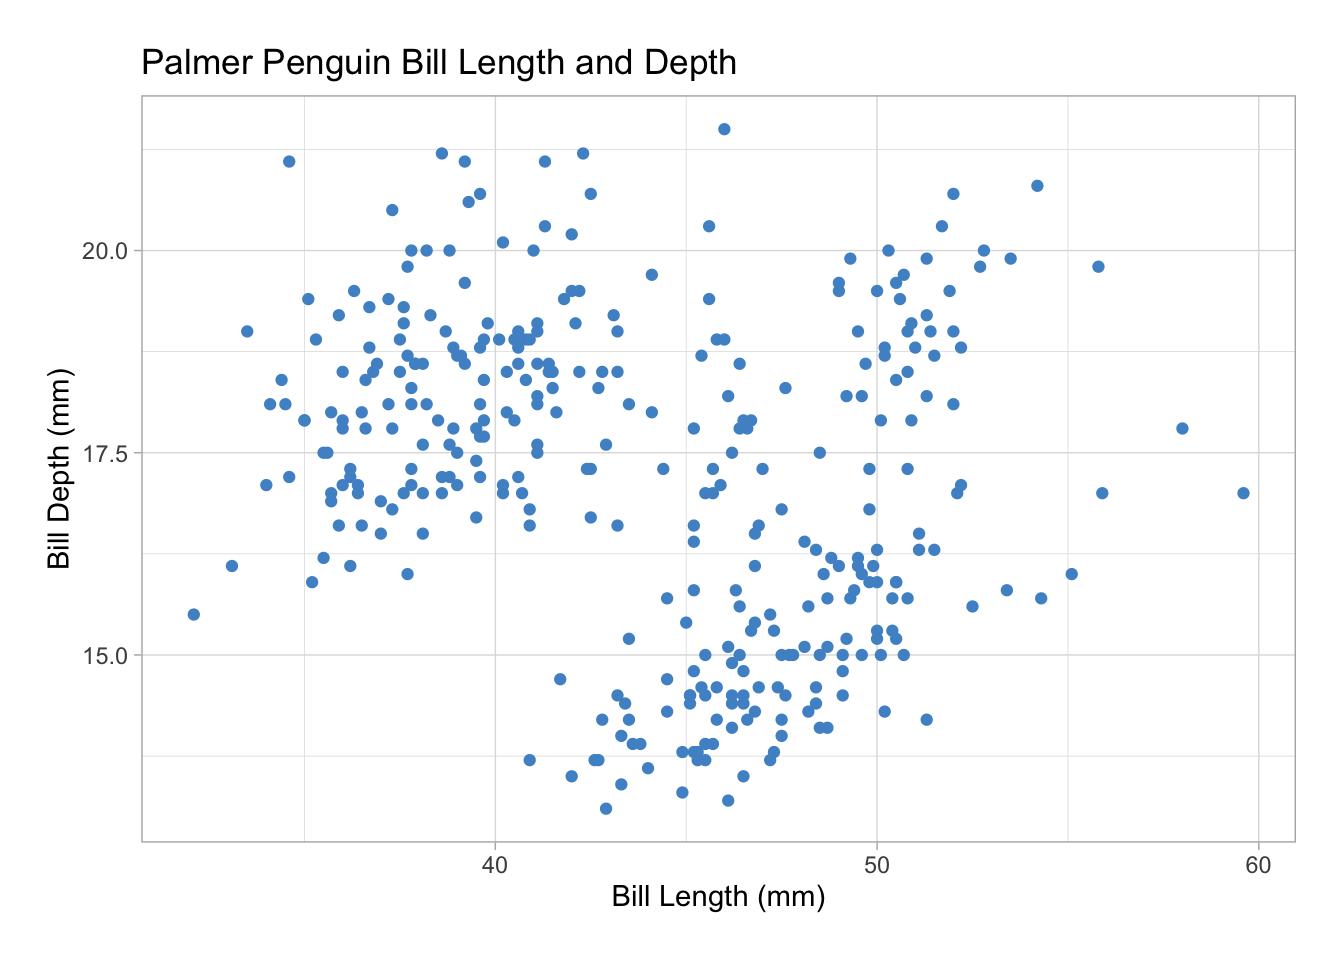
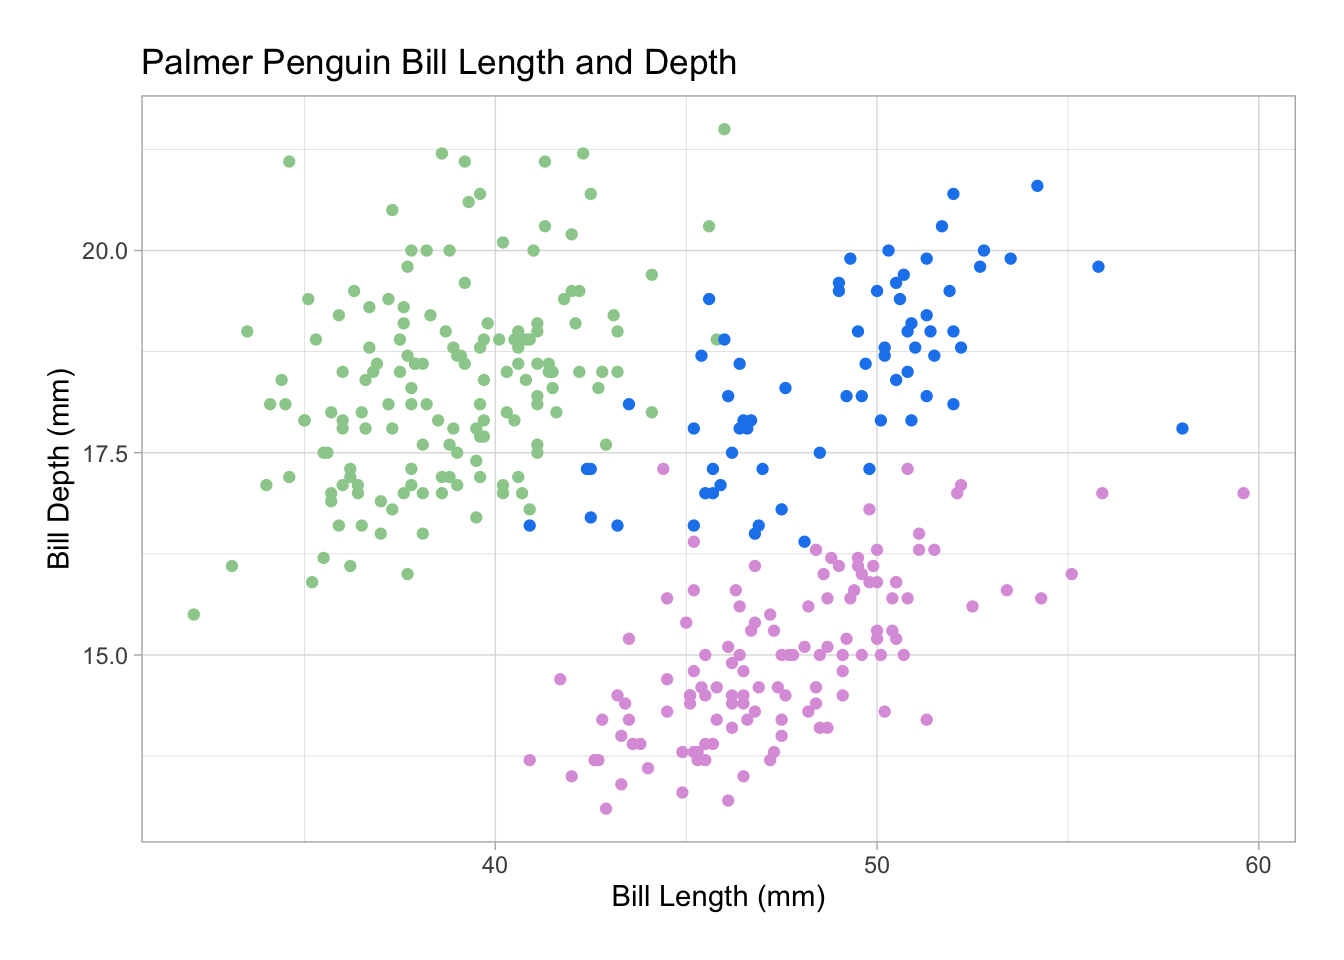
Changed color of the penguin scatterplot

diff --git a/eds-212-day-2-tasks.html b/eds-212-day-2-tasks.html
@@ -161,28 +161,14 @@ pre > code.sourceCode > span > a:first-child::before { text-decoration: underlin
 <h3 class="anchored" data-anchor-id="section-4-tasks">Section 4 tasks</h3>
 <div class="cell">
 <div class="sourceCode cell-code" id="cb8"><pre class="sourceCode r code-with-copy"><code class="sourceCode r"><span id="cb8-1"><a href="#cb8-1" aria-hidden="true" tabindex="-1"></a><span class="co"># make a plot of bill length and bill depth</span></span>
-<span id="cb8-2"><a href="#cb8-2" aria-hidden="true" tabindex="-1"></a><span class="fu">ggplot</span>(<span class="at">data =</span> penguins, <span class="fu">aes</span>(<span class="at">x =</span> bill_length_mm, <span class="at">y =</span> bill_depth_mm)) <span class="sc">+</span></span>
-<span id="cb8-3"><a href="#cb8-3" aria-hidden="true" tabindex="-1"></a>  <span class="fu">geom_point</span>(<span class="at">color =</span> <span class="st">"steelblue3"</span>) <span class="sc">+</span></span>
-<span id="cb8-4"><a href="#cb8-4" aria-hidden="true" tabindex="-1"></a>  <span class="fu">labs</span>(<span class="at">title =</span> <span class="st">"Palmer Penguin Bill Length and Depth"</span>, <span class="at">x =</span> <span class="st">"Bill Length (mm)"</span>, <span class="at">y =</span> <span class="st">"Bill Depth (mm)"</span>) <span class="sc">+</span></span>
-<span id="cb8-5"><a href="#cb8-5" aria-hidden="true" tabindex="-1"></a>  <span class="fu">theme_light</span>() <span class="sc">+</span> </span>
-<span id="cb8-6"><a href="#cb8-6" aria-hidden="true" tabindex="-1"></a>  <span class="fu">theme</span>(<span class="at">plot.margin =</span> <span class="fu">unit</span>(<span class="fu">c</span>(<span class="fl">0.25</span>, <span class="fl">0.25</span>, <span class="fl">0.25</span>, <span class="fl">0.25</span>),</span>
-<span id="cb8-7"><a href="#cb8-7" aria-hidden="true" tabindex="-1"></a>                                <span class="st">"inches"</span>))</span></code><button title="Copy to Clipboard" class="code-copy-button"><i class="bi"></i></button></pre></div>
-<div class="cell-output cell-output-stderr">
-<pre><code>Warning: Removed 2 rows containing missing values (`geom_point()`).</code></pre>
-</div>
-<div class="cell-output-display">
-<p><img src="eds-212-day-2-tasks_files/figure-html/unnamed-chunk-4-1.png" class="img-fluid" width="672"></p>
-</div>
-</div>
-<div class="cell">
-<div class="sourceCode cell-code" id="cb10"><pre class="sourceCode r code-with-copy"><code class="sourceCode r"><span id="cb10-1"><a href="#cb10-1" aria-hidden="true" tabindex="-1"></a><span class="co"># Jitter stuff</span></span>
-<span id="cb10-2"><a href="#cb10-2" aria-hidden="true" tabindex="-1"></a><span class="fu">ggplot</span>(penguins, <span class="fu">aes</span>(species, flipper_length_mm, <span class="at">color =</span> species)) <span class="sc">+</span></span>
-<span id="cb10-3"><a href="#cb10-3" aria-hidden="true" tabindex="-1"></a>  <span class="fu">geom_jitter</span>() <span class="sc">+</span> </span>
-<span id="cb10-4"><a href="#cb10-4" aria-hidden="true" tabindex="-1"></a>  <span class="fu">labs</span>(<span class="at">title =</span> <span class="st">"Jitter plot of species and flipper length"</span>, <span class="at">x =</span> <span class="st">"Species"</span>, <span class="at">y =</span> <span class="st">"Flipper Length (mm)"</span>) <span class="sc">+</span></span>
-<span id="cb10-5"><a href="#cb10-5" aria-hidden="true" tabindex="-1"></a>  <span class="fu">scale_color_manual</span>(<span class="at">values=</span><span class="fu">c</span>(<span class="st">'pink'</span>,<span class="st">'palegreen3'</span>,<span class="st">'cornflowerblue'</span>),</span>
-<span id="cb10-6"><a href="#cb10-6" aria-hidden="true" tabindex="-1"></a>                       <span class="at">guide=</span><span class="cn">FALSE</span>) <span class="sc">+</span></span>
-<span id="cb10-7"><a href="#cb10-7" aria-hidden="true" tabindex="-1"></a>  <span class="fu">theme_light</span>() <span class="sc">+</span> </span>
-<span id="cb10-8"><a href="#cb10-8" aria-hidden="true" tabindex="-1"></a>  <span class="fu">theme</span>(<span class="at">plot.margin =</span> <span class="fu">unit</span>(<span class="fu">c</span>(<span class="fl">0.25</span>, <span class="fl">0.25</span>, <span class="fl">0.25</span>, <span class="fl">0.25</span>), <span class="st">"inches"</span>))</span></code><button title="Copy to Clipboard" class="code-copy-button"><i class="bi"></i></button></pre></div>
+<span id="cb8-2"><a href="#cb8-2" aria-hidden="true" tabindex="-1"></a><span class="fu">ggplot</span>(<span class="at">data =</span> penguins, <span class="fu">aes</span>(<span class="at">x =</span> bill_length_mm, <span class="at">y =</span> bill_depth_mm, <span class="at">color =</span> species)) <span class="sc">+</span></span>
+<span id="cb8-3"><a href="#cb8-3" aria-hidden="true" tabindex="-1"></a>  <span class="fu">geom_point</span>() <span class="sc">+</span></span>
+<span id="cb8-4"><a href="#cb8-4" aria-hidden="true" tabindex="-1"></a>  <span class="fu">scale_color_manual</span>(<span class="at">values=</span><span class="fu">c</span>(<span class="st">'darkseagreen3'</span>,<span class="st">'dodgerblue2'</span>,<span class="st">'plum'</span>),</span>
+<span id="cb8-5"><a href="#cb8-5" aria-hidden="true" tabindex="-1"></a>                       <span class="at">guide=</span><span class="cn">FALSE</span>) <span class="sc">+</span></span>
+<span id="cb8-6"><a href="#cb8-6" aria-hidden="true" tabindex="-1"></a>  <span class="fu">labs</span>(<span class="at">title =</span> <span class="st">"Palmer Penguin Bill Length and Depth"</span>, <span class="at">x =</span> <span class="st">"Bill Length (mm)"</span>, <span class="at">y =</span> <span class="st">"Bill Depth (mm)"</span>) <span class="sc">+</span></span>
+<span id="cb8-7"><a href="#cb8-7" aria-hidden="true" tabindex="-1"></a>  <span class="fu">theme_light</span>() <span class="sc">+</span> </span>
+<span id="cb8-8"><a href="#cb8-8" aria-hidden="true" tabindex="-1"></a>  <span class="fu">theme</span>(<span class="at">plot.margin =</span> <span class="fu">unit</span>(<span class="fu">c</span>(<span class="fl">0.25</span>, <span class="fl">0.25</span>, <span class="fl">0.25</span>, <span class="fl">0.25</span>),</span>
+<span id="cb8-9"><a href="#cb8-9" aria-hidden="true" tabindex="-1"></a>                                <span class="st">"inches"</span>))</span></code><button title="Copy to Clipboard" class="code-copy-button"><i class="bi"></i></button></pre></div>
 <div class="cell-output cell-output-stderr">
 <pre><code>Warning: Removed 2 rows containing missing values (`geom_point()`).</code></pre>
 </div>
@@ -190,6 +176,22 @@ pre > code.sourceCode > span > a:first-child::before { text-decoration: underlin
 <pre><code>Warning: The `guide` argument in `scale_*()` cannot be `FALSE`. This was deprecated in
 ggplot2 3.3.4.
 ℹ Please use "none" instead.</code></pre>
+</div>
+<div class="cell-output-display">
+<p><img src="eds-212-day-2-tasks_files/figure-html/unnamed-chunk-4-1.png" class="img-fluid" width="672"></p>
+</div>
+</div>
+<div class="cell">
+<div class="sourceCode cell-code" id="cb11"><pre class="sourceCode r code-with-copy"><code class="sourceCode r"><span id="cb11-1"><a href="#cb11-1" aria-hidden="true" tabindex="-1"></a><span class="co"># Jitter stuff</span></span>
+<span id="cb11-2"><a href="#cb11-2" aria-hidden="true" tabindex="-1"></a><span class="fu">ggplot</span>(penguins, <span class="fu">aes</span>(species, flipper_length_mm, <span class="at">color =</span> species)) <span class="sc">+</span></span>
+<span id="cb11-3"><a href="#cb11-3" aria-hidden="true" tabindex="-1"></a>  <span class="fu">geom_jitter</span>() <span class="sc">+</span> </span>
+<span id="cb11-4"><a href="#cb11-4" aria-hidden="true" tabindex="-1"></a>  <span class="fu">labs</span>(<span class="at">title =</span> <span class="st">"Jitter plot of species and flipper length"</span>, <span class="at">x =</span> <span class="st">"Species"</span>, <span class="at">y =</span> <span class="st">"Flipper Length (mm)"</span>) <span class="sc">+</span></span>
+<span id="cb11-5"><a href="#cb11-5" aria-hidden="true" tabindex="-1"></a>  <span class="fu">scale_color_manual</span>(<span class="at">values=</span><span class="fu">c</span>(<span class="st">'pink'</span>,<span class="st">'palegreen3'</span>,<span class="st">'cornflowerblue'</span>),</span>
+<span id="cb11-6"><a href="#cb11-6" aria-hidden="true" tabindex="-1"></a>                       <span class="at">guide=</span><span class="cn">FALSE</span>) <span class="sc">+</span></span>
+<span id="cb11-7"><a href="#cb11-7" aria-hidden="true" tabindex="-1"></a>  <span class="fu">theme_light</span>() <span class="sc">+</span> </span>
+<span id="cb11-8"><a href="#cb11-8" aria-hidden="true" tabindex="-1"></a>  <span class="fu">theme</span>(<span class="at">plot.margin =</span> <span class="fu">unit</span>(<span class="fu">c</span>(<span class="fl">0.25</span>, <span class="fl">0.25</span>, <span class="fl">0.25</span>, <span class="fl">0.25</span>), <span class="st">"inches"</span>))</span></code><button title="Copy to Clipboard" class="code-copy-button"><i class="bi"></i></button></pre></div>
+<div class="cell-output cell-output-stderr">
+<pre><code>Warning: Removed 2 rows containing missing values (`geom_point()`).</code></pre>
 </div>
 <div class="cell-output-display">
 <p><img src="eds-212-day-2-tasks_files/figure-html/unnamed-chunk-5-1.png" class="img-fluid" width="672"></p>
